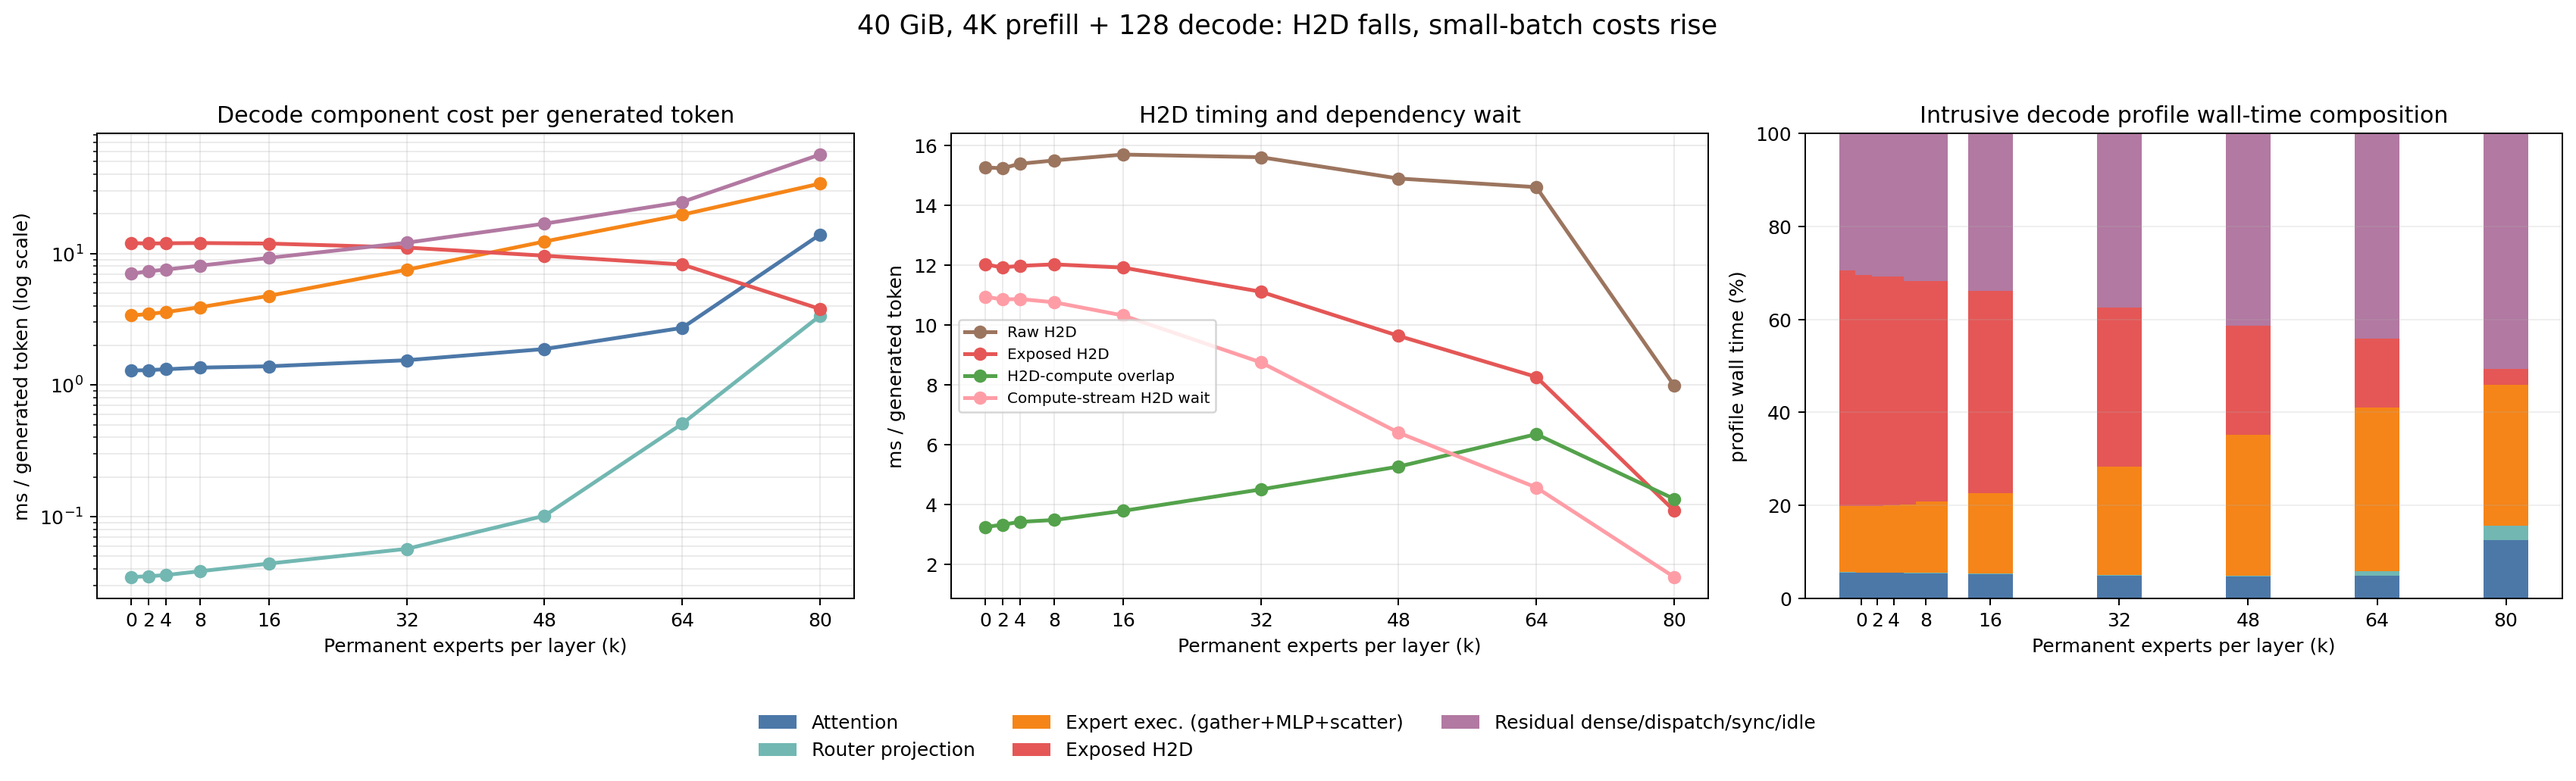
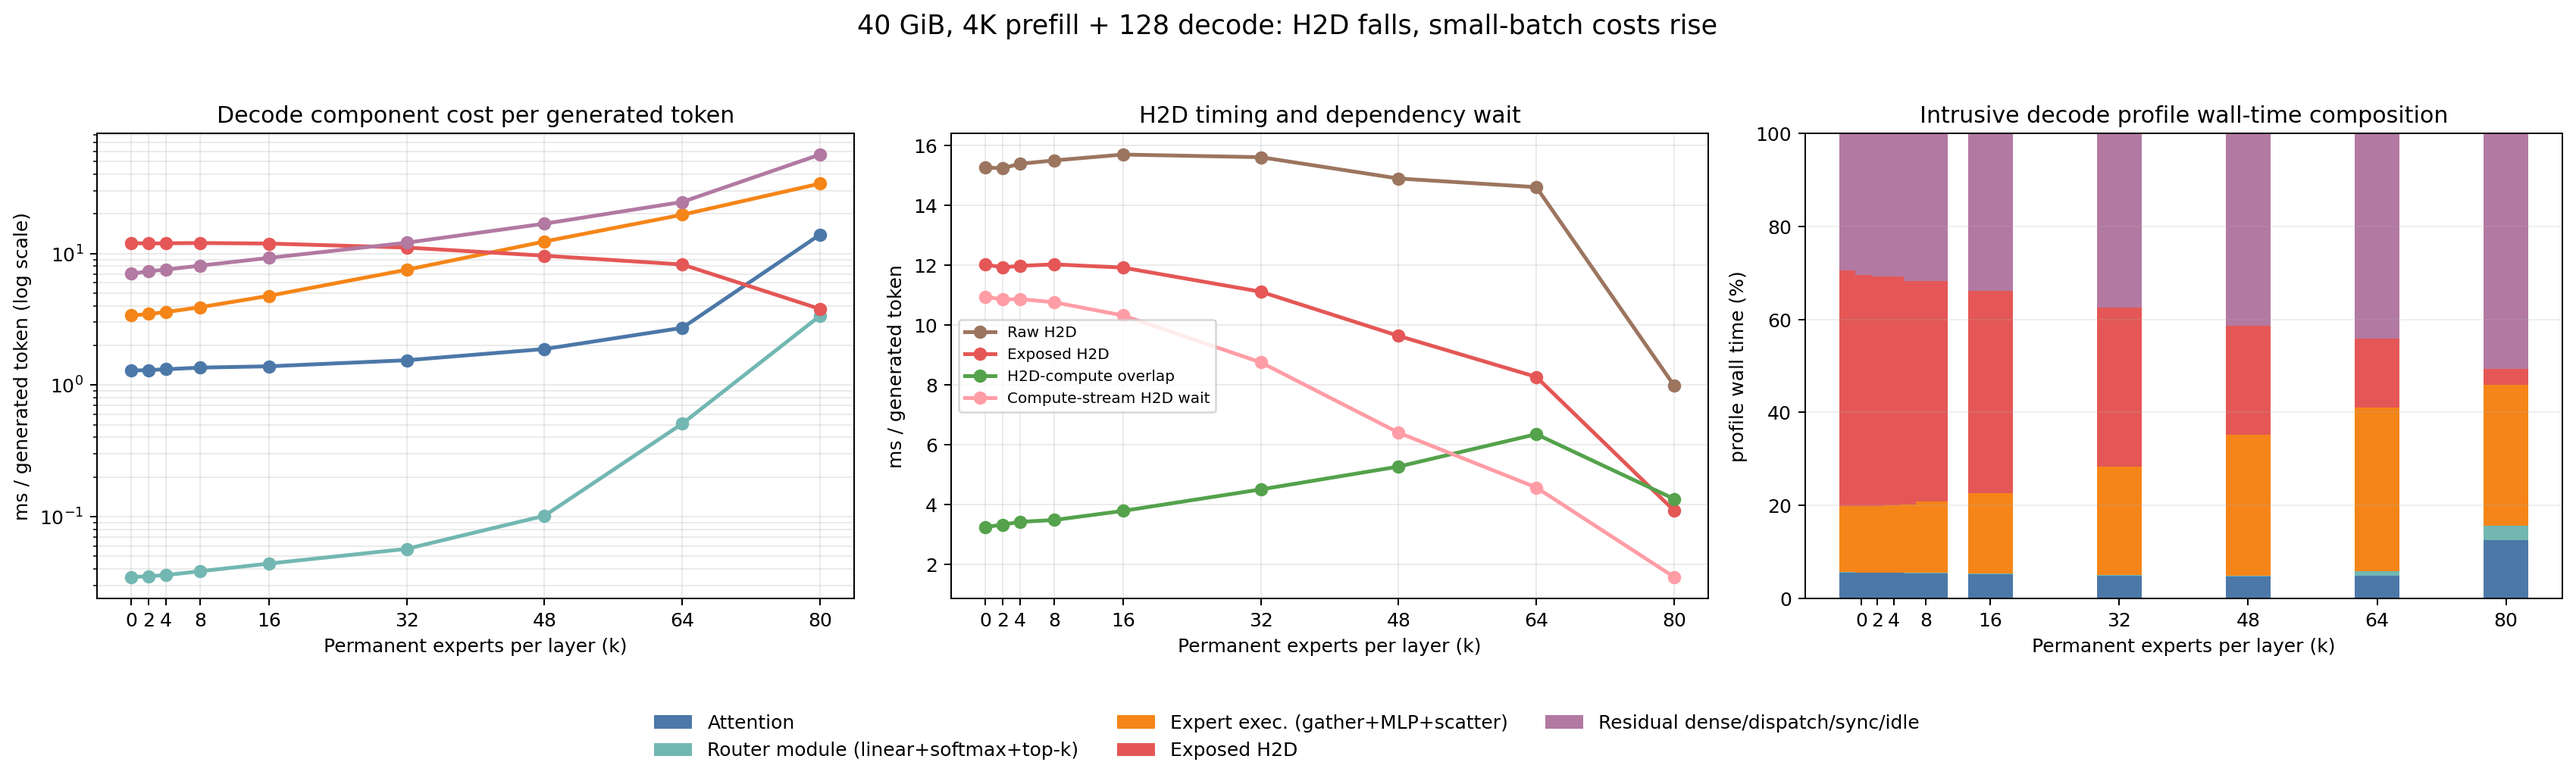
Correct Router timing label

Changed region(s): [[0.2495, 0.9001, 0.7485, 0.9932]]

diff --git a/7-31 exp/experiments/analysis/analyze_reduced_hbm_breakdown.py b/7-31 exp/experiments/analysis/analyze_reduced_hbm_breakdown.py
@@ -25,7 +25,7 @@ PHASES = {
 
 ADDITIVE_COMPONENTS = (
     "attention",
-    "router_projection",
+    "router_module",
     "expert_execution",
     "exposed_h2d",
     "residual_dense_dispatch_host_sync_idle",
@@ -62,7 +62,7 @@ def _profile_phase(value: dict, phase: str) -> dict:
     )
     first_miss_stall_ms = float(value[f"{prefix}first_miss_stall_ms"])
     attention_ms = float(value[f"{prefix}attention_ms"])
-    router_projection_ms = float(value[f"{prefix}router_ms"])
+    router_module_ms = float(value[f"{prefix}router_ms"])
     expert_execution_ms = float(value[f"{prefix}expert_compute_ms"])
     residual_ms = float(value[f"{prefix}other_dense_host_idle_ms"])
 
@@ -72,7 +72,7 @@ def _profile_phase(value: dict, phase: str) -> dict:
     )
     additive_total_ms = (
         attention_ms
-        + router_projection_ms
+        + router_module_ms
         + expert_execution_ms
         + exposed_h2d_ms
         + residual_ms
@@ -91,7 +91,7 @@ def _profile_phase(value: dict, phase: str) -> dict:
         "compute_stream_h2d_wait": compute_stream_h2d_wait_ms,
         "first_miss_stall": first_miss_stall_ms,
         "attention": attention_ms,
-        "router_projection": router_projection_ms,
+        "router_module": router_module_ms,
         "expert_execution": expert_execution_ms,
         "residual_dense_dispatch_host_sync_idle": residual_ms,
     }
@@ -109,7 +109,7 @@ def _profile_phase(value: dict, phase: str) -> dict:
         _close(
             non_h2d_wall_ms,
             attention_ms
-            + router_projection_ms
+            + router_module_ms
             + expert_execution_ms
             + residual_ms,
         ),
@@ -276,14 +276,14 @@ def _plot_breakdown(path: Path, rows: list[dict]) -> None:
 
     colors = {
         "attention": "#4c78a8",
-        "router_projection": "#72b7b2",
+        "router_module": "#72b7b2",
         "expert_execution": "#f58518",
         "exposed_h2d": "#e45756",
         "residual_dense_dispatch_host_sync_idle": "#b279a2",
     }
     labels = {
         "attention": "Attention",
-        "router_projection": "Router projection",
+        "router_module": "Router module (linear+softmax+top-k)",
         "expert_execution": "Expert exec. (gather+MLP+scatter)",
         "exposed_h2d": "Exposed H2D",
         "residual_dense_dispatch_host_sync_idle": "Residual dense/dispatch/sync/idle",
@@ -458,7 +458,7 @@ def _decode_only_rows(rows: list[dict]) -> list[dict]:
         "decode_non_h2d_wall_ms",
         "decode_expert_execution_ms",
         "decode_attention_ms",
-        "decode_router_projection_ms",
+        "decode_router_module_ms",
         "decode_residual_dense_dispatch_host_sync_idle_ms",
         "decode_profile_wall_ms",
         "decode_raw_h2d_us_per_token",
@@ -469,7 +469,7 @@ def _decode_only_rows(rows: list[dict]) -> list[dict]:
         "decode_non_h2d_wall_us_per_token",
         "decode_expert_execution_us_per_token",
         "decode_attention_us_per_token",
-        "decode_router_projection_us_per_token",
+        "decode_router_module_us_per_token",
         "decode_residual_dense_dispatch_host_sync_idle_us_per_token",
         "decode_profile_wall_us_per_token",
         "runtime_decode_seconds",
@@ -581,8 +581,8 @@ def _plot_decode_only(path: Path, rows: list[dict]) -> None:
         ),
         ("decode_attention_us_per_token", "Attention", "#72b7b2", ".."),
         (
-            "decode_router_projection_us_per_token",
-            "Router projection",
+            "decode_router_module_us_per_token",
+            "Router module",
             "#eeca3b",
             "xx",
         ),
@@ -743,10 +743,10 @@ def main() -> None:
             "decode_attention_us_per_token"
         ]
         / baseline["decode_attention_us_per_token"],
-        "k80_router_projection_per_token_ratio_vs_k0": largest[
-            "decode_router_projection_us_per_token"
+        "k80_router_module_per_token_ratio_vs_k0": largest[
+            "decode_router_module_us_per_token"
         ]
-        / baseline["decode_router_projection_us_per_token"],
+        / baseline["decode_router_module_us_per_token"],
         "k80_residual_per_token_ratio_vs_k0": largest[
             "decode_residual_dense_dispatch_host_sync_idle_us_per_token"
         ]
@@ -765,14 +765,14 @@ def main() -> None:
             "performance_wall_time": "uninstrumented runtime_at_bmax; exact for the 200-request makespan and every wave",
             "component_timing": "intrusive profiles_at_bmax; exactly one Bmax wave per k and normalized by phase-token count",
             "attention": "CUDA event time around each self_attn module",
-            "router_projection": "CUDA event time around each MLP gate projection only; dispatch is not included",
+            "router_module": "CUDA event time around each MLP gate module: linear logits, softmax, top-k selection, and optional top-k normalization; forced-route override and token dispatch are not included",
             "expert_execution": "CUDA event time from token index_select through Expert MLP and weighted index_add; not pure GEMM",
             "raw_h2d": "sum of single-contiguous-buffer Expert H2D copy intervals",
             "overlapped_h2d": "intersection of Expert H2D intervals and expert-execution intervals",
             "exposed_h2d": "raw_h2d minus overlapped_h2d",
             "compute_stream_h2d_wait": "CUDA event time across compute-stream wait_event(copy_done); a direct H2D dependency wait, not total host synchronization",
-            "residual_dense_dispatch_host_sync_idle": "profile wall minus attention, router projection, expert execution, and exposed H2D; includes dense layers, unisolated dispatch, host work, explicit stream synchronize, and idle",
-            "additivity_warning": "raw/overlapped H2D and compute-stream H2D wait overlap other categories; only attention + router projection + expert execution + exposed H2D + residual is an additive wall partition",
+            "residual_dense_dispatch_host_sync_idle": "profile wall minus attention, router module, expert execution, and exposed H2D; includes dense layers, unisolated dispatch, host work, explicit stream synchronize, and idle",
+            "additivity_warning": "raw/overlapped H2D and compute-stream H2D wait overlap other categories; only attention + router module + expert execution + exposed H2D + residual is an additive wall partition",
             "decode_fetch_miss": "an active non-Permanent Expert execution requiring one packed transient H2D fetch; expert_executions equals fetch misses plus Permanent hits",
         },
         "diagnosis": diagnosis,

diff --git a/7-31 exp/tests/test_reduced_hbm_breakdown.py b/7-31 exp/tests/test_reduced_hbm_breakdown.py
@@ -33,7 +33,7 @@ def test_profile_phase_keeps_h2d_nonadditive_and_closes_wall_partition() -> None
         result[f"{name}_wall_pct"]
         for name in (
             "attention",
-            "router_projection",
+            "router_module",
             "expert_execution",
             "exposed_h2d",
             "residual_dense_dispatch_host_sync_idle",
